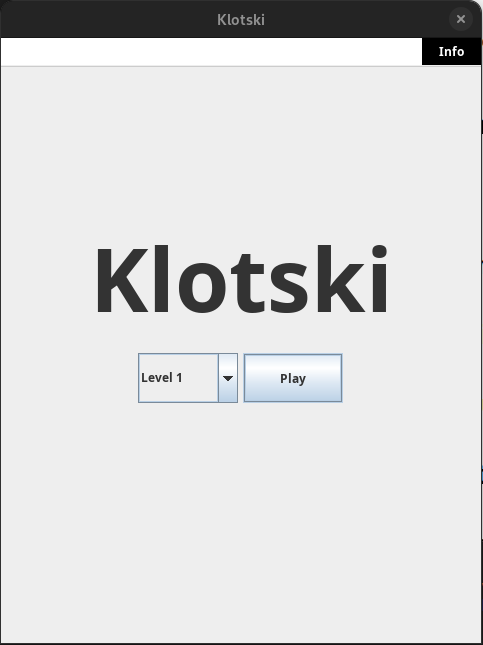
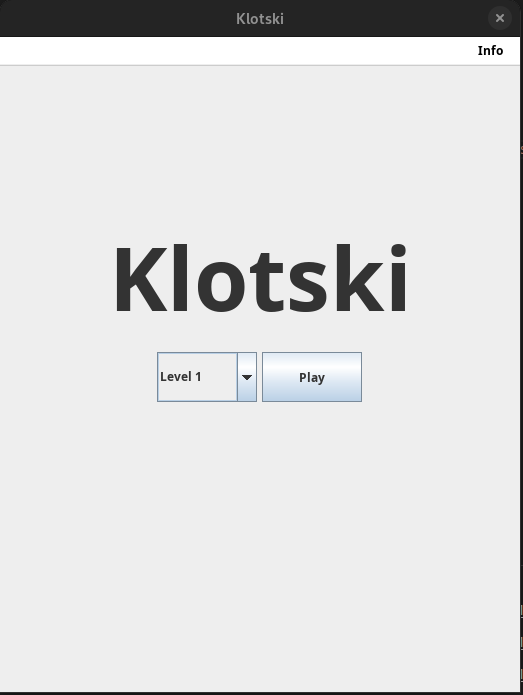
Change Colors

Changed region(s): [[0.1863, 0.3411, 0.8075, 0.6512], [0.0, 0.0, 1.0, 1.0]]

diff --git a/src/main/java/Window.java b/src/main/java/Window.java
@@ -1,25 +1,86 @@
 import javax.swing.*;
-import javax.swing.border.EmptyBorder;
 import java.awt.*;
+import javax.swing.border.EmptyBorder;
 import java.awt.event.MouseAdapter;
 import java.awt.event.MouseEvent;
+import java.awt.Color;
 
 
+/**
+ * The Theme class represents a collection of colors used for application.
+ */
+class Theme {
+    /**
+     * The color for the big block.
+     */
+    static Color bigBlock = Color.decode("#001C30");
+
+    /**
+     * The color for a regular block.
+     */
+    static Color block = Color.decode("#176B87");
+
+    /**
+     * The color for a selected block.
+     */
+    static Color blockSelected = Color.decode("#64CCC5");
+
+    /**
+     * The color for the border of a block.
+     */
+    static Color blockBorder = Color.decode("#FFFFFF");
+
+    /**
+     * The color for an end point to win the game.
+     */
+    static Color endPoint = Color.RED;
+
+    /**
+     * The background color.
+     */
+    static Color background = Color.decode("#DAFFFB");
+
+    /**
+     * The color for a menu.
+     */
+    static Color menu = Color.WHITE;
+
+    /**
+     * The color for menu text.
+     */
+    static Color menuText = Color.BLACK;
+
+    /**
+     * The color for menu text whene the mouse is on hover.
+     */
+    static Color menuTextHover = Color.ORANGE;
+}
+
+
+/**
+ * This class represents a customized button that extends the JButton class.
+ * It provides a default style for buttons with specific colors.
+ */
 class Button extends JButton {
+
+    /**
+     * Constructs a Button with the specified label.
+     * @param str The label text for the button.
+     */
     Button(String str) {
         super(str);
-        setBackground(Color.BLACK);
-        setForeground(Color.WHITE);
+        setBackground(Theme.menu);
+        setForeground(Theme.menuText);
         setBorderPainted(false);
         setFocusable(false);
 
         addMouseListener(new MouseAdapter() {
             public void mouseEntered(MouseEvent e) {
-                setForeground(Color.ORANGE);
+                setForeground(Theme.menuTextHover);
             }
         
             public void mouseExited(MouseEvent e) {
-                setForeground(Color.WHITE);
+                setForeground(Theme.menuText);
             }
         });
     }
@@ -28,9 +89,20 @@ class Button extends JButton {
 public class Window extends JFrame  {
 
     final static String winName = "Klotski";
-    final static public int BLOCK_SIZE = 120;
+    final static public int BLOCK_SIZE = 130;
     final static public int BOARD_WIDTH = Board.WIDTH * BLOCK_SIZE;
     final static public int BOARD_HEIGHT = Board.HEIGHT * BLOCK_SIZE + 5;
+    final static private String infoTitle = "This project is the Klotsky game developed by 4 students.";
+    final static private String infoGameRules = "GOAL:\n" +
+    "Among the blocks, there is a special one (the 2x2 red) which\n" +
+    "must be moved to a special area, where there is the red line.\n" +
+    "RULES:\n" +
+    "The player may only slide blocks horizontally and vertically,\n" +
+    "cannot bring pieces outside the board and, for that, when you\n" +
+    "leave the board with the mouse the action will be cancelled.\n" +
+    "HELP:\n" +
+    "With the button \"Best move\" the best move will be made,\n" +
+    "with the button \"Solve all\" all the puzzle will be solved";
 
     protected JPanel menu;
     private JMenuBar mainBar;
@@ -58,6 +130,8 @@ public class Window extends JFrame  {
 
         String[] levels = { "Level 1", "Level 2", "Level 3", "Level 4" };
         JComboBox<String>  selectLevel = new JComboBox<String>(levels);
+        // selectLevel.setBackground(Theme.menu);
+        // selectLevel.setForeground(Theme.menuText);
         menu.putClientProperty("level_selection", selectLevel);
         selectLevel.setPreferredSize(new Dimension(100, 50));
 
@@ -75,7 +149,7 @@ public class Window extends JFrame  {
 
         // Create BOARD
         board_view = new JPanel(null);
-        board_view.setBackground(Color.GRAY);
+        board_view.setBackground(Theme.background);
 
         JButton b = new JButton("TEST");
         b.setBackground(Color.ORANGE);
@@ -89,6 +163,18 @@ public class Window extends JFrame  {
         
         JMenu fileMenu = new JMenu("Settings");
         menuBar.putClientProperty("Settings", fileMenu);
+
+        fileMenu.addMouseListener(new MouseAdapter() {
+            @Override
+            public void mouseEntered(MouseEvent e) {
+                fileMenu.setForeground(Theme.menuTextHover);
+            }
+        
+            @Override
+            public void mouseExited(MouseEvent e) {
+                fileMenu.setForeground(Theme.menuText);
+            }
+        });
 
         JMenu levelMenu = new JMenu("Levels");
         menuBar.putClientProperty("Levels", levelMenu);
@@ -181,7 +267,7 @@ public class Window extends JFrame  {
         pieces_view = new JPanel[pieces.length];
         
         JButton exit = new JButton();
-        exit.setBackground(Color.RED);
+        exit.setBackground(Theme.endPoint);
         exit.setEnabled(false); // Set the button as disabled
         exit.setBounds(BLOCK_SIZE, BOARD_HEIGHT - 5, BLOCK_SIZE * 2, 5);
         board_view.add(exit);
@@ -190,12 +276,12 @@ public class Window extends JFrame  {
             int[] prop = pieces[i].getProperties();
             pieces_view[i] = new JPanel();
             pieces_view[i].setBounds(prop[0] * BLOCK_SIZE, prop[1] * BLOCK_SIZE, prop[2] * BLOCK_SIZE, prop[3] * BLOCK_SIZE);
-            pieces_view[i].setBorder(BorderFactory.createMatteBorder(2, 2, 2, 2, Color.GRAY));
+            pieces_view[i].setBorder(BorderFactory.createMatteBorder(2, 2, 2, 2, Theme.blockBorder));
             if(board.isSpecial(i)) {
-                pieces_view[i].setBackground(Color.RED);
+                pieces_view[i].setBackground(Theme.bigBlock);
             }
             else {
-                pieces_view[i].setBackground(Color.ORANGE);
+                pieces_view[i].setBackground(Theme.block);
             }
             board_view.add(pieces_view[i]);
         }
@@ -225,15 +311,15 @@ public class Window extends JFrame  {
     }
 
     public void pressedPiece(int index) {
-        pieces_view[index].setBackground(Color.BLUE);
+        pieces_view[index].setBackground(Theme.blockSelected);
     }
 
     public void releasedPiece(int index, boolean isSpecial) {
         if(isSpecial) {
-            pieces_view[index].setBackground(Color.RED);
+            pieces_view[index].setBackground(Theme.bigBlock);
         }
         else {
-            pieces_view[index].setBackground(Color.ORANGE);
+            pieces_view[index].setBackground(Theme.block);
         }
     }
 
@@ -269,17 +355,8 @@ public class Window extends JFrame  {
 
     private void showInfo() {
         JOptionPane.showMessageDialog(this,
-                "GOAL:\n" +
-                        "Among the blocks, there is a special one (the 2x2 red) which\n" +
-                        "must be moved to a special area, where there is the red line.\n" +
-                        "RULES:\n" +
-                        "The player may only slide blocks horizontally and vertically,\n" +
-                        "cannot bring pieces outside the board and, for that, when you\n" +
-                        "leave the board with the mouse the action will be cancelled.\n" +
-                        "HELP:\n" +
-                        "With the button \"Best move\" the best move will be made,\n" +
-                        "with the button \"Solve all\" all the puzzle will be solved",
-                "This project is the Klotsky game developed by 4 students.",
+                infoGameRules,
+                infoTitle,
                 JOptionPane.INFORMATION_MESSAGE);
     }
 }

diff --git a/README.md b/README.md
@@ -9,62 +9,10 @@ Progetto finale di ingegneria del software, la traccia del progetto la potete tr
     <img src="./img/Game.png" alt="Game" width="400" />
 </div>
 
-## Manuale
-
-###  Descrizione del gioco
-Klotski é un gioco basato su un’insieme di pezzi disposti su una scacchiera di una certa dimensione e numero di pezzi il cui obiettivo é quello di far “uscire” un pezzo specifico dalla tastiera.
-
-La nostra implementazione di Klotski prevede una tastiera larga quattro caselle e alta cinque, con dieci pezzi disposti su di essa e l’obiettivo finale è quello di far arrivare il piú grande tra di essi nella striscia rossa in fondo alla scacchiera. 
-
-Il programma permette di scegliere tra piú di una disposizione iniziale dei pezzi dal menú principale e anche di mettere “in pausa” la partita salvando la disposizione dei pezzi in un file che sí potrá ricaricare successivamente.
-
-Per rendere meno ostica la risoluzione del puzzle il programma da la possibilitá di conoscere la mossa piú opportuna da effettuare per vincere la partita: il programma collegandosi ad un server esterno riceverá la lista di tutte le mosse necessarie per vincere. É inoltre possibile, tramite il tasto “Undo” di annullare le mosse effettuate precedentemente, di cui il programma tiene traccia.
-
-Lo spostamento delle caselle é effettuato dall’utente trascinando i pezzi con il puntatore del mouse.
-
-### Installazione ed esecuzione
-Per eseguire il programma é sufficiente eseguire il file **.jar** distribuito con esso.
-
-### Ambiente di esecuzione
-Il programma é stato sviluppato, testato ed eseguito con **Java 11**. Non é stato testato il funzionamento con versioni precedenti o successive del runtim
-
-### Librerie esterne
-#### Jackson
-**Jackson** é una popolare libreria che permette di gestire file **JSON**. In particolare é servita per salvare lo stato del programma e per comunicare con il solver che gira sotto ambiente Node.JS su un server esterno.
-
-Si mappa il JSON da scrivere/leggere su un oggetto ObjectMapper e successivamente si utilizzano gli oggetti ArrayNode, ObjectNode a seconda dei dati che si vogliono gestire. 
-
-Per esempio la funzione createArrayNode() utilizzata da un oggetto ObjectMapper consente di creare un array che verrá scritto/letto nel JSON. Successivamente si puó creare un oggetto JSON ObjectNode assegnandone il valore dato dal metodo addObject() dell’array, i valori del suddetto oggetto potranno essere modificati tramite il suo metodo put(fieldName, valueName) che permette di scrivere chiave e valore dell’oggetto. Dato che questo oggetto é stato creato a partire da un metodo dell’ArrayNode é giá presente nell’array.
-
-#### HTTPUrlConnection
-La libreria consente di gestire connessioni basate sul protocollo **HTTP**. 
-In questo programma in particolare é utilizzata per mandare al server esterno una richiesta POST contentente il JSON della disposizione dei pezzi della tastiera che verrá utilizzato dal programma risolutore. 
-HTTPUrlConnection si occupa anche di ricevere la risposta del server esterno contenente anch’essa un JSON contenente la lista delle mosse che portano alla vittoria.
-
-```JAVA
-HttpURLConnection con = (HttpURLConnection) url.openConnection();
-con.setRequestMethod("POST");
-con.setDoOutput(true);
-con.setRequestProperty("Content-Type", "application/json");
-con.setRequestProperty("Accept", "application/json");
-```
-
-Questo codice di esempio apre un socket chiamato con che apre la connessione all’url specificato nella variabile url definita in precedenza.
-Successivamente definisce una richiesta POST che ha come contenuto un JSON.
-
-Fatto ciò si manda il JSON al server tramite la funzione write() dell’oggetto OutputStream.
-Il JSON di risposta del server verrá ricevuto tramite l’istanza di un oggetto di tipo InputStream il cui contenuto verrá letto e scritto in una stringa da un BufferedReader. 
-
-Questa stringa, infine, verrá gestita dalla libreria Jackson per farla diventare un JSON vero e proprio che verrá utilizzato dal programma per suggerire all’utente le mosse da compiere successive.
-
-## Use Cases
-
-## Domain model
-
-## Design model
-
-## Sequence Diagrams
-
-## Test
-
-## Javadoc 
+#### - [Manuale](./Manuale.md)
+#### - [Use Cases](./UseCases.md)
+#### - [Domain model](./DomainModel.md)
+#### - [Design model](./DesignModel.md)
+#### - [Sequence Diagrams](SequenceDiagrams.md)
+#### - [Test](./Test.md)
+#### - [Javadoc](./Javadoc.md) 

diff --git a/Manuale.md b/Manuale.md
@@ -1,0 +1,46 @@
+# Manuale
+###  Descrizione del gioco
+Klotski é un gioco basato su un’insieme di pezzi disposti su una scacchiera di una certa dimensione e numero di pezzi il cui obiettivo é quello di far “uscire” un pezzo specifico dalla tastiera.
+
+La nostra implementazione di Klotski prevede una tastiera larga quattro caselle e alta cinque, con dieci pezzi disposti su di essa e l’obiettivo finale è quello di far arrivare il piú grande tra di essi nella striscia rossa in fondo alla scacchiera. 
+
+Il programma permette di scegliere tra piú di una disposizione iniziale dei pezzi dal menú principale e anche di mettere “in pausa” la partita salvando la disposizione dei pezzi in un file che sí potrá ricaricare successivamente.
+
+Per rendere meno ostica la risoluzione del puzzle il programma da la possibilitá di conoscere la mossa piú opportuna da effettuare per vincere la partita: il programma collegandosi ad un server esterno riceverá la lista di tutte le mosse necessarie per vincere. É inoltre possibile, tramite il tasto “Undo” di annullare le mosse effettuate precedentemente, di cui il programma tiene traccia.
+
+Lo spostamento delle caselle é effettuato dall’utente trascinando i pezzi con il puntatore del mouse.
+
+### Installazione ed esecuzione
+Per eseguire il programma é sufficiente eseguire il file **.jar** distribuito con esso.
+
+### Ambiente di esecuzione
+Il programma é stato sviluppato, testato ed eseguito con **Java 11**. Non é stato testato il funzionamento con versioni precedenti o successive del runtim
+
+### Librerie esterne
+#### Jackson
+**Jackson** é una popolare libreria che permette di gestire file **JSON**. In particolare é servita per salvare lo stato del programma e per comunicare con il solver che gira sotto ambiente Node.JS su un server esterno.
+
+Si mappa il JSON da scrivere/leggere su un oggetto ObjectMapper e successivamente si utilizzano gli oggetti ArrayNode, ObjectNode a seconda dei dati che si vogliono gestire. 
+
+Per esempio la funzione createArrayNode() utilizzata da un oggetto ObjectMapper consente di creare un array che verrá scritto/letto nel JSON. Successivamente si puó creare un oggetto JSON ObjectNode assegnandone il valore dato dal metodo addObject() dell’array, i valori del suddetto oggetto potranno essere modificati tramite il suo metodo put(fieldName, valueName) che permette di scrivere chiave e valore dell’oggetto. Dato che questo oggetto é stato creato a partire da un metodo dell’ArrayNode é giá presente nell’array.
+
+#### HTTPUrlConnection
+La libreria consente di gestire connessioni basate sul protocollo **HTTP**. 
+In questo programma in particolare é utilizzata per mandare al server esterno una richiesta POST contentente il JSON della disposizione dei pezzi della tastiera che verrá utilizzato dal programma risolutore. 
+HTTPUrlConnection si occupa anche di ricevere la risposta del server esterno contenente anch’essa un JSON contenente la lista delle mosse che portano alla vittoria.
+
+```JAVA
+HttpURLConnection con = (HttpURLConnection) url.openConnection();
+con.setRequestMethod("POST");
+con.setDoOutput(true);
+con.setRequestProperty("Content-Type", "application/json");
+con.setRequestProperty("Accept", "application/json");
+```
+
+Questo codice di esempio apre un socket chiamato con che apre la connessione all’url specificato nella variabile url definita in precedenza.
+Successivamente definisce una richiesta POST che ha come contenuto un JSON.
+
+Fatto ciò si manda il JSON al server tramite la funzione write() dell’oggetto OutputStream.
+Il JSON di risposta del server verrá ricevuto tramite l’istanza di un oggetto di tipo InputStream il cui contenuto verrá letto e scritto in una stringa da un BufferedReader. 
+
+Questa stringa, infine, verrá gestita dalla libreria Jackson per farla diventare un JSON vero e proprio che verrá utilizzato dal programma per suggerire all’utente le mosse da compiere successive.
